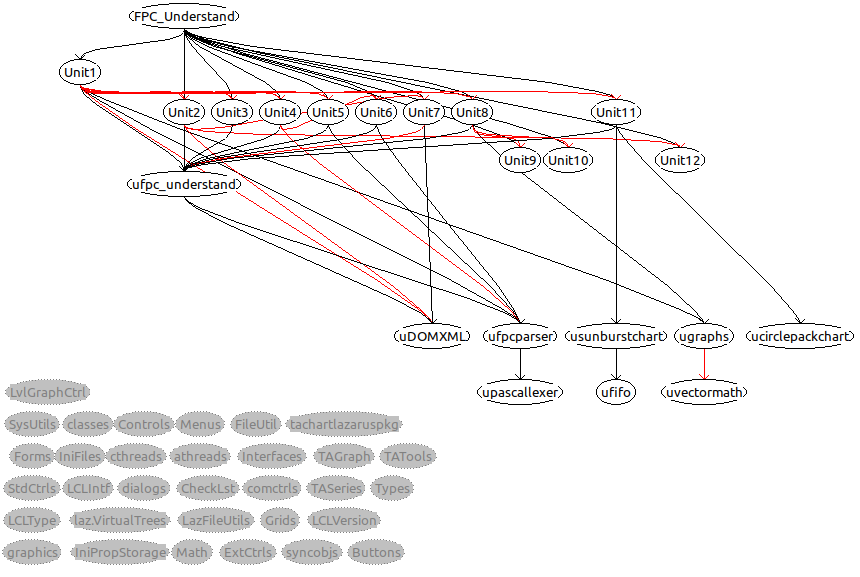
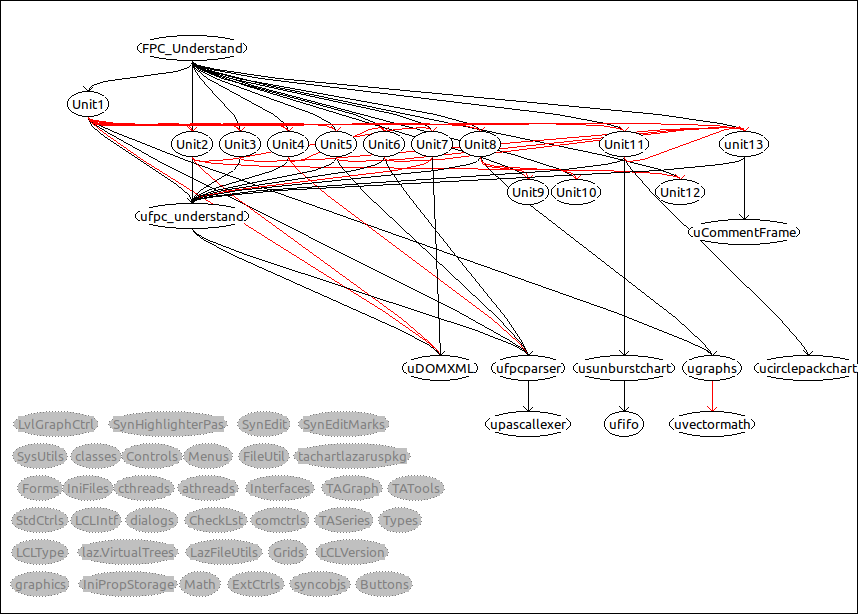
ADD: docu for new review / editor feature.

diff --git a/README.md b/README.md
@@ -9,8 +9,13 @@ These informations are:
 - Unit dependencies
 - Class hierarchy
 - Statisics like: lines of code, cyclomatic complexity ...
+- Reviewsupport by code editing and commentingmask
 
 ![Code_Line_Analysis](images/Preview_Line_Analysis.png)
+
+The included source editor has a comment function. The created comments can be exported as .csv.
+
+![Codereviews](images/fpc_understand_review_view.png)
 
 The program is mainly designed to work with Lazarus .lpi files, but it is not forced to use .lpi files.
 
